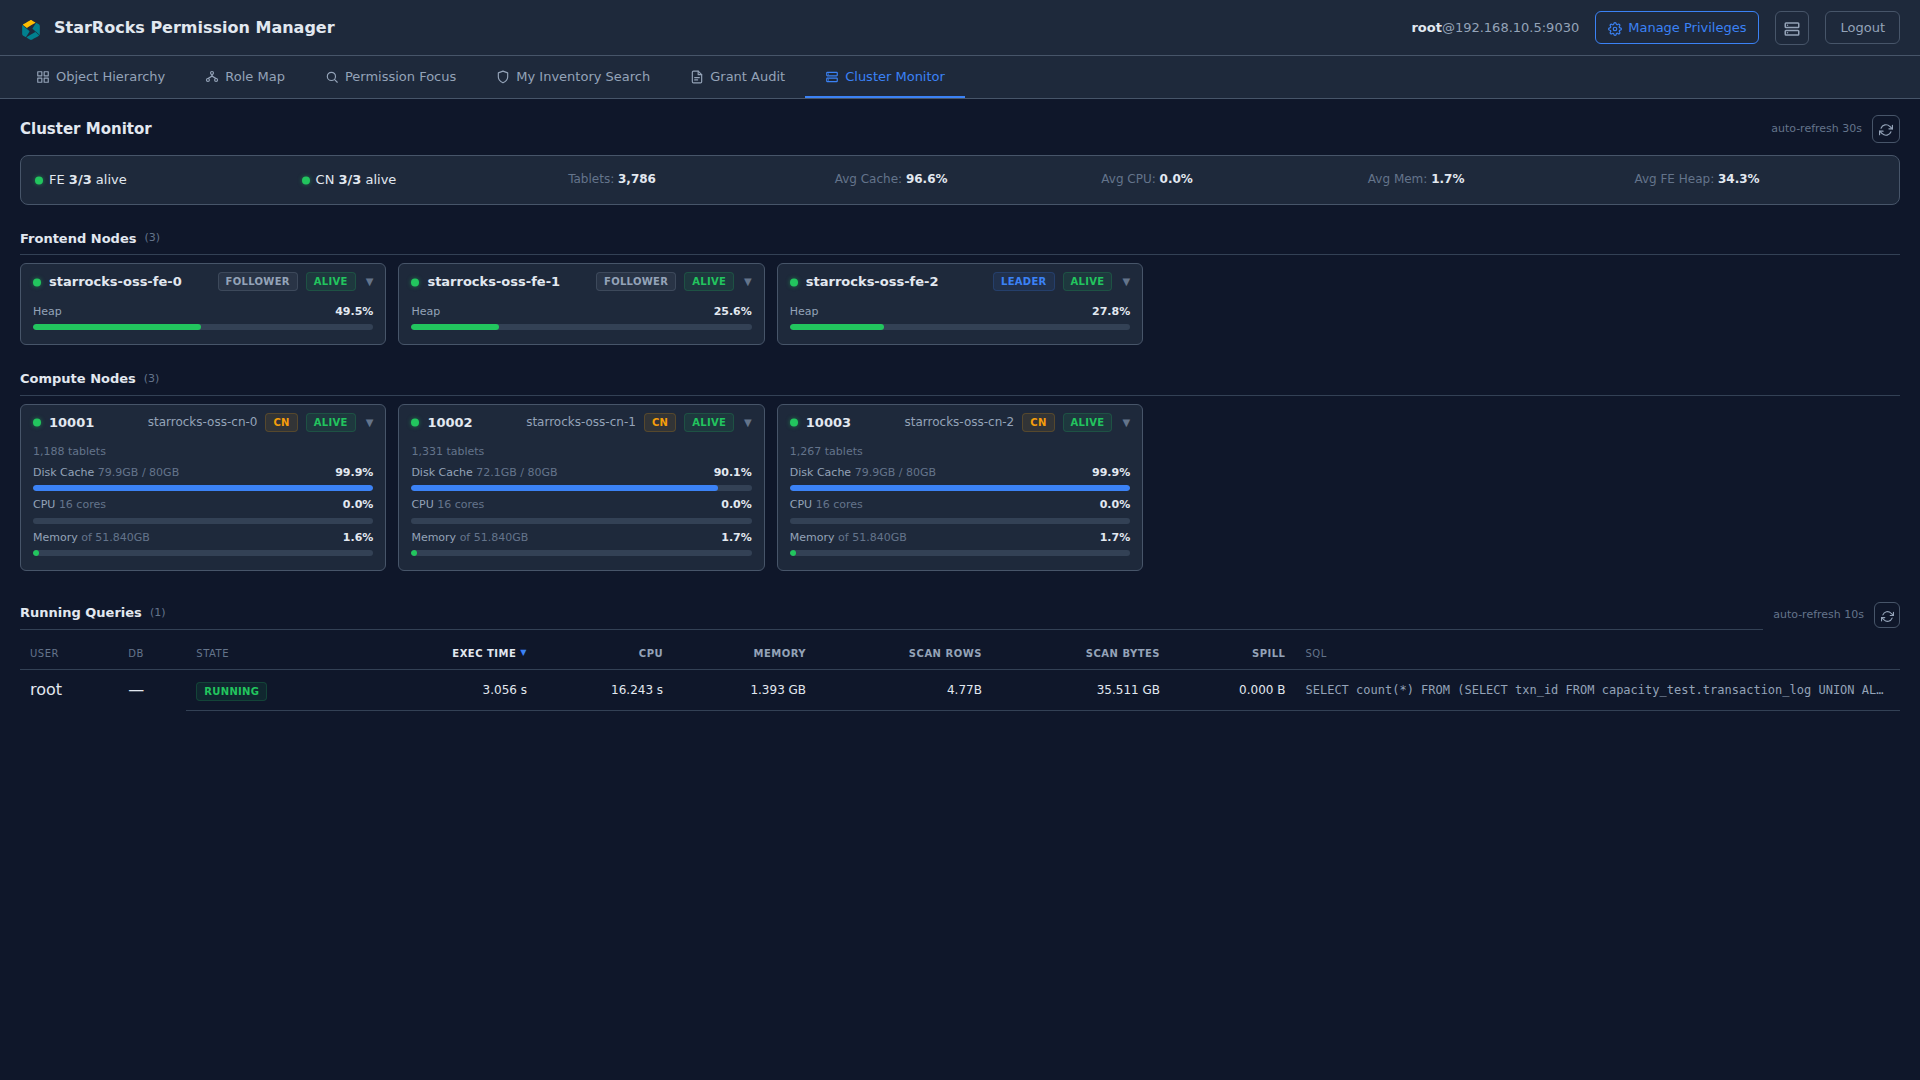
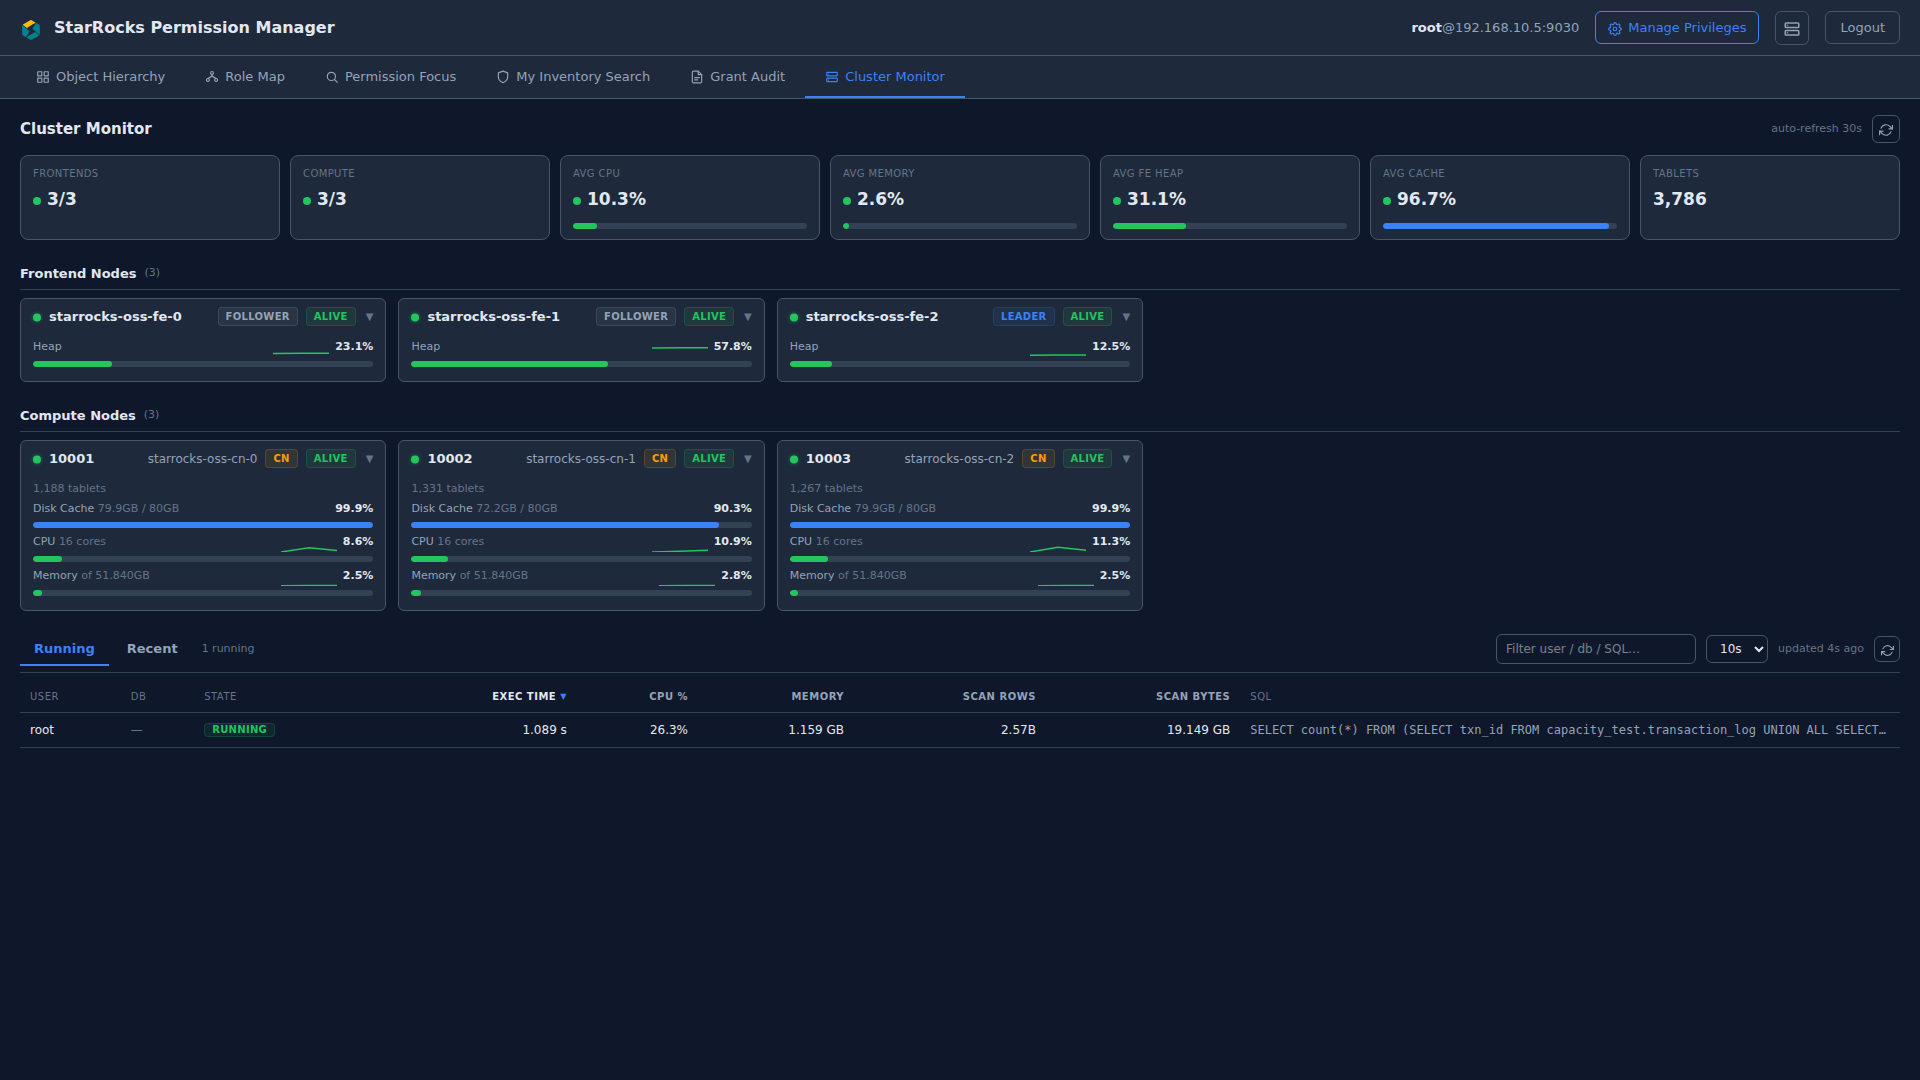
Docs: cluster monitor v2.2 — history/kill endpoints, CPU share, UI upgrades

diff --git a/docs/API.md b/docs/API.md
@@ -84,7 +84,9 @@ curl http://localhost:8001/api/admin/roles \
 | Method | Path | Description |
 |--------|------|-------------|
 | GET | `/api/cluster/status` | FE/BE node list + aggregate metrics + has_errors flag + server_now |
-| GET | `/api/cluster/queries` | Running queries with resource usage (requires OPERATE; 403 when denied) |
+| GET | `/api/cluster/queries` | Running queries with resource usage + CPU share + can_kill (OPERATE; 403 when denied) |
+| GET | `/api/cluster/queries/history` | Completed-query history from AuditLoader (available=false when absent) |
+| POST | `/api/cluster/queries/kill` | KILL a query by id (grant-admin only; audited to grant_log) |
 
 ---
 
@@ -738,14 +740,16 @@ Returns the queries currently running on the cluster with per-query resource usa
       "spill_bytes": 0.0, "spill_display": "0.000 B",
       "cpu_time_ms": 478.0, "cpu_time_display": "0.478 s",
       "exec_time_ms": 2126.0, "exec_time_display": "2.126 s",
+      "cpu_avg_cores": 0.22,
       "sql": "SELECT count(*) FROM capacity_test.transaction_log WHERE txn_id % 7 = 3"
     }
   ],
-  "server_now": "2026-06-12 01:25:04"
+  "server_now": "2026-06-12 01:25:04",
+  "can_kill": true
 }
 ```
 
-`*_display` fields keep StarRocks' human-readable strings for rendering; the numeric counterparts (`*_bytes`, `*_ms`, `scan_rows`) are parsed sort keys.
+`*_display` fields keep StarRocks' human-readable strings for rendering; the numeric counterparts (`*_bytes`, `*_ms`, `scan_rows`) are parsed sort keys. `cpu_avg_cores` = cumulative CPU time / wall time (average cores kept busy since the query started); the UI divides it by total alive BE/CN cores for a cluster CPU share %. `can_kill` mirrors the caller's grant-admin capability so the UI shows/hides the KILL action.
 
 > **Cache**: Results are cached per username for **5 s** (running queries change fast — independent of `SRPM_CACHE_TTL_SECONDS`). The UI polls every 10 s while the panel is visible.
 
@@ -753,6 +757,62 @@ Returns the queries currently running on the cluster with per-query resource usa
 | Status | Description |
 |--------|-------------|
 | 403 | StarRocks denied `SHOW PROC` (OPERATE privilege / `cluster_admin` required) |
+
+### GET `/api/cluster/queries/history`
+
+Returns recently **completed** queries from the StarRocks AuditLoader table (`starrocks_audit_db__.starrocks_audit_tbl__`). Powers the **Recent** subtab.
+
+**Auth**: JWT Bearer. Access-denied on the audit table → **403**. When the AuditLoader plugin isn't installed (table missing), returns `200` with `available: false` and a `reason` (the UI shows a hint instead of an error).
+
+**Query Parameters**
+| Param | Type | Description |
+|-------|------|-------------|
+| limit | int (1–500, default 100) | Max rows, newest first |
+| errors_only | boolean | Only failed queries (`state = 'ERR'`) |
+
+**Response** `200 OK`
+```json
+{
+  "available": true,
+  "queries": [
+    {
+      "query_id": "019eb66c-1682-7780-94e2-94848aaa7bf0",
+      "timestamp": "2026-06-11 20:23:17",
+      "user": "root", "database": "capacity_test", "warehouse": "default_warehouse",
+      "query_type": "Query", "state": "EOF", "is_error": false, "error_code": null,
+      "query_time_ms": 735, "scan_rows": 350, "scan_bytes": 12345,
+      "mem_cost_bytes": 57671680, "cpu_cost_ns": 480000000,
+      "sql": "SELECT count(*) FROM capacity_test.transaction_log"
+    }
+  ],
+  "server_now": "2026-06-12 01:25:04",
+  "reason": null
+}
+```
+State `EOF`/`OK` = success, `ERR` = failure (`error_code` carries the detail). `query_time_ms` is milliseconds.
+
+### POST `/api/cluster/queries/kill`
+
+KILLs a running query by its global query id. **Grant-admin only** (`require_grant_admin` — admin + user_admin). Every attempt (success or failure) is written to `srpm_audit.grant_log` with `action='KILL'`, exactly like GRANT/REVOKE.
+
+`KILL QUERY '<uuid>'` is cluster-global (works through a load balancer); the FE-local `KILL <connection_id>` form is not used. The query id is validated (`^[0-9a-f-]{8,64}$`) before it is quoted into the statement.
+
+**Request**
+```json
+{ "query_id": "019eb7f7-5b01-72f1-b624-5807d8809da3" }
+```
+
+**Response** `200 OK`
+```json
+{ "status": "ok", "query_id": "019eb7f7-...", "audit": "ok" }
+```
+
+**Errors**
+| Status | Description |
+|--------|-------------|
+| 403 | Caller is not a grant admin (or StarRocks denied KILL) |
+| 404 | Unknown query id (already finished) |
+| 422 | Malformed query id |
 
 ---
 

diff --git a/docs/QUERY_MONITORING_DESIGN.md b/docs/QUERY_MONITORING_DESIGN.md
@@ -80,10 +80,31 @@ timestamps with the same as-if-UTC rule, so the zone offset cancels:
   `utils/relativeTime.ts` (skew), `utils/querySort.ts` (new),
   `api/client.ts` (`ApiError`, `quiet`), `api/cluster.ts`, `types/index.ts`.
 
+## v2.2 additions (cluster-monitor follow-ups)
+
+- **CPU share per query**: `cpu_avg_cores` = cumulative CPU time / wall time
+  (average cores busy since start). UI shows it as % of total alive BE/CN
+  cores, plus an *instantaneous* value from the poll-to-poll CPUTime delta.
+  Accuracy caveats (avg-since-start, ~10s report interval, multi-warehouse
+  denominator) are documented in the panel tooltips.
+- **Completed-query history (M1)**: `GET /api/cluster/queries/history` reads
+  `starrocks_audit_db__.starrocks_audit_tbl__` (AuditLoader). Returns
+  `available:false` with a reason when the plugin table is absent, so the
+  Recent subtab degrades gracefully. `errors_only` filters `state='ERR'`.
+- **KILL query (M6)**: `POST /api/cluster/queries/kill`, **grant-admin only**
+  (`require_grant_admin`), audited to `srpm_audit.grant_log` like GRANT/REVOKE.
+  **Verified live**: `KILL QUERY '<uuid>'` is cluster-global (succeeds through
+  the LB regardless of owning FE); `KILL <connection_id>` is FE-local and
+  returns "Unknown thread id (1094)" off the owning FE — so KILL is always by
+  query id. The UI hides the action unless `can_kill` (grant-admin).
+- **UI**: Running | Recent subtabs, text filter, refresh-interval selector,
+  KPI gauge band (status colors + jump-to-section), node cards with
+  session-accumulated CPU/heap sparklines and dead-nodes-first ordering. The
+  header drawer became a live gauge glance (15s auto-refresh) with a top
+  running-queries preview; its KPIs/alerts/preview jump straight to the
+  matching section/node in the Cluster Monitor tab.
+
 ## Follow-ups (not in this change)
 
-- Completed-query history via AuditLoader (detect table at runtime) and/or
-  `SHOW PROFILELIST` when profiling is enabled.
-- KILL QUERY action (write path — needs audit logging like grant/revoke).
-- Execution plan summary (`ANALYZE PROFILE`) when a profile exists.
-- Trend/sparkline history for node metrics.
+- `SHOW PROFILELIST` / execution-plan summary when profiling is enabled.
+- Persisted (cross-session) metric trends; per-warehouse CPU denominator.

diff --git a/CLAUDE.md b/CLAUDE.md
@@ -116,16 +116,17 @@ When code or project structure changes, run a sub-agent after completing the tas
         │   ├── inventory-helpers.ts  # SubTab/AllTab types, SUB_TAB_META, formatSQL/Bytes
         │   ├── privColors.ts        # Privilege tag color map
         │   ├── relativeTime.ts      # formatRelativeTime + clockSkewMs/skewedNow (cluster-TZ correction)
-        │   ├── querySort.ts         # sortQueries() for the Running Queries table
+        │   ├── querySort.ts         # sortQueries/sortHistory for the queries panel
+        │   ├── queryFormat.ts       # fmtRows/fmtBytes/fmtDurationMs/fmtCpuShare
         │   ├── scopeConfig.ts       # SCOPE_ORDER, SCOPE_ICONS
         │   └── toast.ts             # Deduplicating toast
         └── components/
             ├── auth/LoginForm.tsx
             ├── cluster/
-            │   ├── ClusterDrawer.tsx  # Quick-glance drawer (summary + alerts + link to Cluster tab)
-            │   ├── ClusterSummary.tsx # Shared summary card / alerts / banners (drawer + tab)
-            │   ├── NodeCards.tsx      # FENodeCard/BENodeCard/UtilBar(variant)/StatusDot (shared)
-            │   └── QueriesPanel.tsx   # Running Queries table (10s poll, sort, SQL detail, 403 in place)
+            │   ├── ClusterDrawer.tsx  # Live gauge glance (15s poll, KPI band + alerts + query preview, jumps to tab)
+            │   ├── ClusterSummary.tsx # Shared: compact summary, ClusterKpiBand (gauges+jump), alerts, banners
+            │   ├── NodeCards.tsx      # FENodeCard/BENodeCard/UtilBar(variant)/Sparkline/StatusDot (shared)
+            │   └── QueriesPanel.tsx   # Running|Recent subtabs: filter, refresh-interval, instant CPU%, grant-admin KILL
             ├── grants/
             │   └── ManagePrivilegesModal.tsx  # GRANT/REVOKE wizard (presets, multi-revoke, keep-open)
             ├── layout/Header.tsx, Sidebar.tsx  # Sidebar uses isAdmin-conditional APIs; Header has cluster icon
@@ -269,7 +270,7 @@ When code or project structure changes, run a sub-agent after completing the tas
 | Permission Focus | Search user/role → inheritance DAG + privilege list | Yes |
 | My Inventory | Sub-tab browser: Roles/Users/Catalogs/DBs/Tables/MVs/Views/Functions + detail panel | No |
 | Grant Audit | GRANT/REVOKE history table (srpm_audit.grant_log) | can_manage_grants only |
-| Cluster Monitor | FE/BE/CN node dashboard + Running Queries panel (auto-refresh, sortable, SQL detail) | No (StarRocks gates; limited view without cluster_admin) |
+| Cluster Monitor | FE/BE/CN dashboard (KPI gauges, node sparklines) + Running/Recent queries (filter, instant CPU%, grant-admin KILL) | No (StarRocks gates; limited view without cluster_admin) |
 
 ## My Inventory Sub-tabs
 | Sub-tab | Data Source | Detail Panel |
@@ -299,8 +300,9 @@ npm run dev
 ## Linting
 ```bash
 # Backend
-ruff check backend/app/
+ruff check backend/app/                            # incl. I (import order)
 ruff format backend/app/ --check
+mypy backend/app/ --config-file pyproject.toml     # also enforced in CI lint.yml
 
 # Frontend
 cd frontend
@@ -352,7 +354,9 @@ cd frontend && E2E_SR_PASS=... npx playwright test
 
 ### Cluster Routes (`/api/cluster/*` — any logged-in user; StarRocks enforces privilege, 403 on denied)
 - Status: GET /api/cluster/status — FE/BE node list + aggregate metrics + has_errors flag + server_now
-- Queries: GET /api/cluster/queries — running queries with resource usage + SQL text (OPERATE required)
+- Queries: GET /api/cluster/queries — running queries + resource usage + cpu_avg_cores + can_kill (OPERATE)
+- History: GET /api/cluster/queries/history — completed queries from AuditLoader (available=false when absent)
+- Kill: POST /api/cluster/queries/kill — KILL by query id, grant-admin only (require_grant_admin), audited to grant_log
 
 ### Grant Routes (`/api/admin/grants/*` — `require_grant_admin`; see docs/API.md)
 - GET spec · POST preview · POST execute · GET audit

diff --git a/docs/CONTRIBUTING.md b/docs/CONTRIBUTING.md
@@ -83,13 +83,24 @@ All checks must pass before merging:
 
 ```bash
 # Backend linting
-ruff check backend/app/
-ruff format backend/app/ --check
+ruff check backend/app/                       # lint (E, W, F, B, UP, I=import order)
+ruff format backend/app/ --check              # formatting
+mypy backend/app/ --config-file pyproject.toml  # static type check (also enforced in CI)
 
 # Frontend linting
 cd frontend
 npx tsc --noEmit
 npx eslint src/ --max-warnings 0
+```
+
+### Pre-commit hooks (optional but recommended)
+
+Run ruff lint + format automatically on every commit:
+
+```bash
+pip install pre-commit
+pre-commit install          # one-time, from repo root
+pre-commit run --all-files  # run manually across the repo
 ```
 
 ## Pull Request Guidelines

diff --git a/README.md b/README.md
@@ -15,7 +15,7 @@ A web UI for visually exploring user, role, and object permission structures acr
   - **My Inventory**: Browse all accessible objects by type with detail side panel (Roles, Users, Catalogs, Databases, Tables, MVs, Views, Functions, Resource Groups, Warehouses, etc.)
   - **Cluster Monitor**: FE/BE/CN node dashboard + running-queries panel (auto-refresh)
 - **Admin & Non-Admin Support** — Admin users see all roles/users/objects via `/api/admin/*` routes (sys.* tables). Non-admin users see only their accessible objects and role chain via `/api/user/*` routes (SHOW GRANTS + INFORMATION_SCHEMA). Admin routes enforce `require_admin` (403 for non-admin).
-- **Cluster Monitor** — Full-page dashboard (tab) with node health cards, aggregate metrics, and a **Running Queries** table: sortable by exec time / CPU / memory / scan volume, click a row for the full SQL. Status auto-refreshes every 30 s, queries every 10 s. The header cluster icon shows a red badge when any node is down and opens a quick-glance drawer that links to the tab. Node inventory and running queries require `cluster_admin` (SYSTEM OPERATE) in StarRocks; non-privileged users get a limited single-FE view.
+- **Cluster Monitor** — Full-page dashboard (tab) with a KPI gauge band, node health cards (CPU/heap trend sparklines, dead nodes first), and a **Running / Recent queries** panel. Running: sortable by exec time / CPU% / memory / scan volume, an instantaneous CPU share, text filter, selectable refresh interval, click a row for the full SQL, and a **KILL** action for grant admins (audited to `grant_log`). Recent: completed-query history from the StarRocks AuditLoader plugin with an errors-only filter. The header cluster icon shows a red badge when any node is down and opens a live gauge drawer (15 s auto-refresh) whose KPIs, alerts, and top-query preview jump straight to the matching section in the tab. Node inventory and queries require `cluster_admin` (SYSTEM OPERATE); non-privileged users get a limited view.
 - **Object Permission Matrix** — Click an object to see a grantee × privilege matrix (Direct/Inherited indicators), with type-specific columns per object type
 - **Implicit USAGE** — TABLE-level grants automatically show implicit DATABASE/CATALOG USAGE access
 - **User/Role Privilege View** — Unified scope-grouped tree (GrantTreeView) across all panels
@@ -150,7 +150,8 @@ Every GRANT/REVOKE attempt (including denied ones) recorded in `srpm_audit.grant
 ![Resource Groups](docs/screenshots/resource-groups.png)
 
 ### Cluster Monitor
-Node health cards + Running Queries with live resource usage (issue #15).
+KPI gauge band + node cards (CPU/heap sparklines) + Running/Recent queries with
+instant CPU share and grant-admin KILL (issue #15).
 
 ![Cluster Monitor](docs/screenshots/cluster-monitor.png)
 
@@ -168,7 +169,7 @@ Node health cards + Running Queries with live resource usage (issue #15).
 | **Role Map** | Shows role inheritance with full BFS child traversal. Clicking a role shows the complete inheritance chain (parents + children + users). | No |
 | **Permission Focus** | Search for a user or role to view their inheritance DAG and full privilege list side-by-side. | Yes |
 | **My Inventory** | Browse all accessible objects organized by sub-tabs (Roles, Users, Catalogs, Databases, Tables, MVs, Views, Functions, Resource Groups, Warehouses, etc.) with a detail side panel. | No |
-| **Cluster Monitor** | FE/BE/CN node health cards + aggregate metrics + Running Queries panel (sortable, full-SQL detail, auto-refresh). Node/query data requires `cluster_admin`; others see a limited view. | No |
+| **Cluster Monitor** | KPI gauges + FE/BE/CN node cards (sparklines) + Running/Recent queries (filter, instant CPU%, grant-admin KILL, completed-query history). Node/query data requires `cluster_admin`; others see a limited view. | No |
 
 ### My Inventory Sub-tabs
 